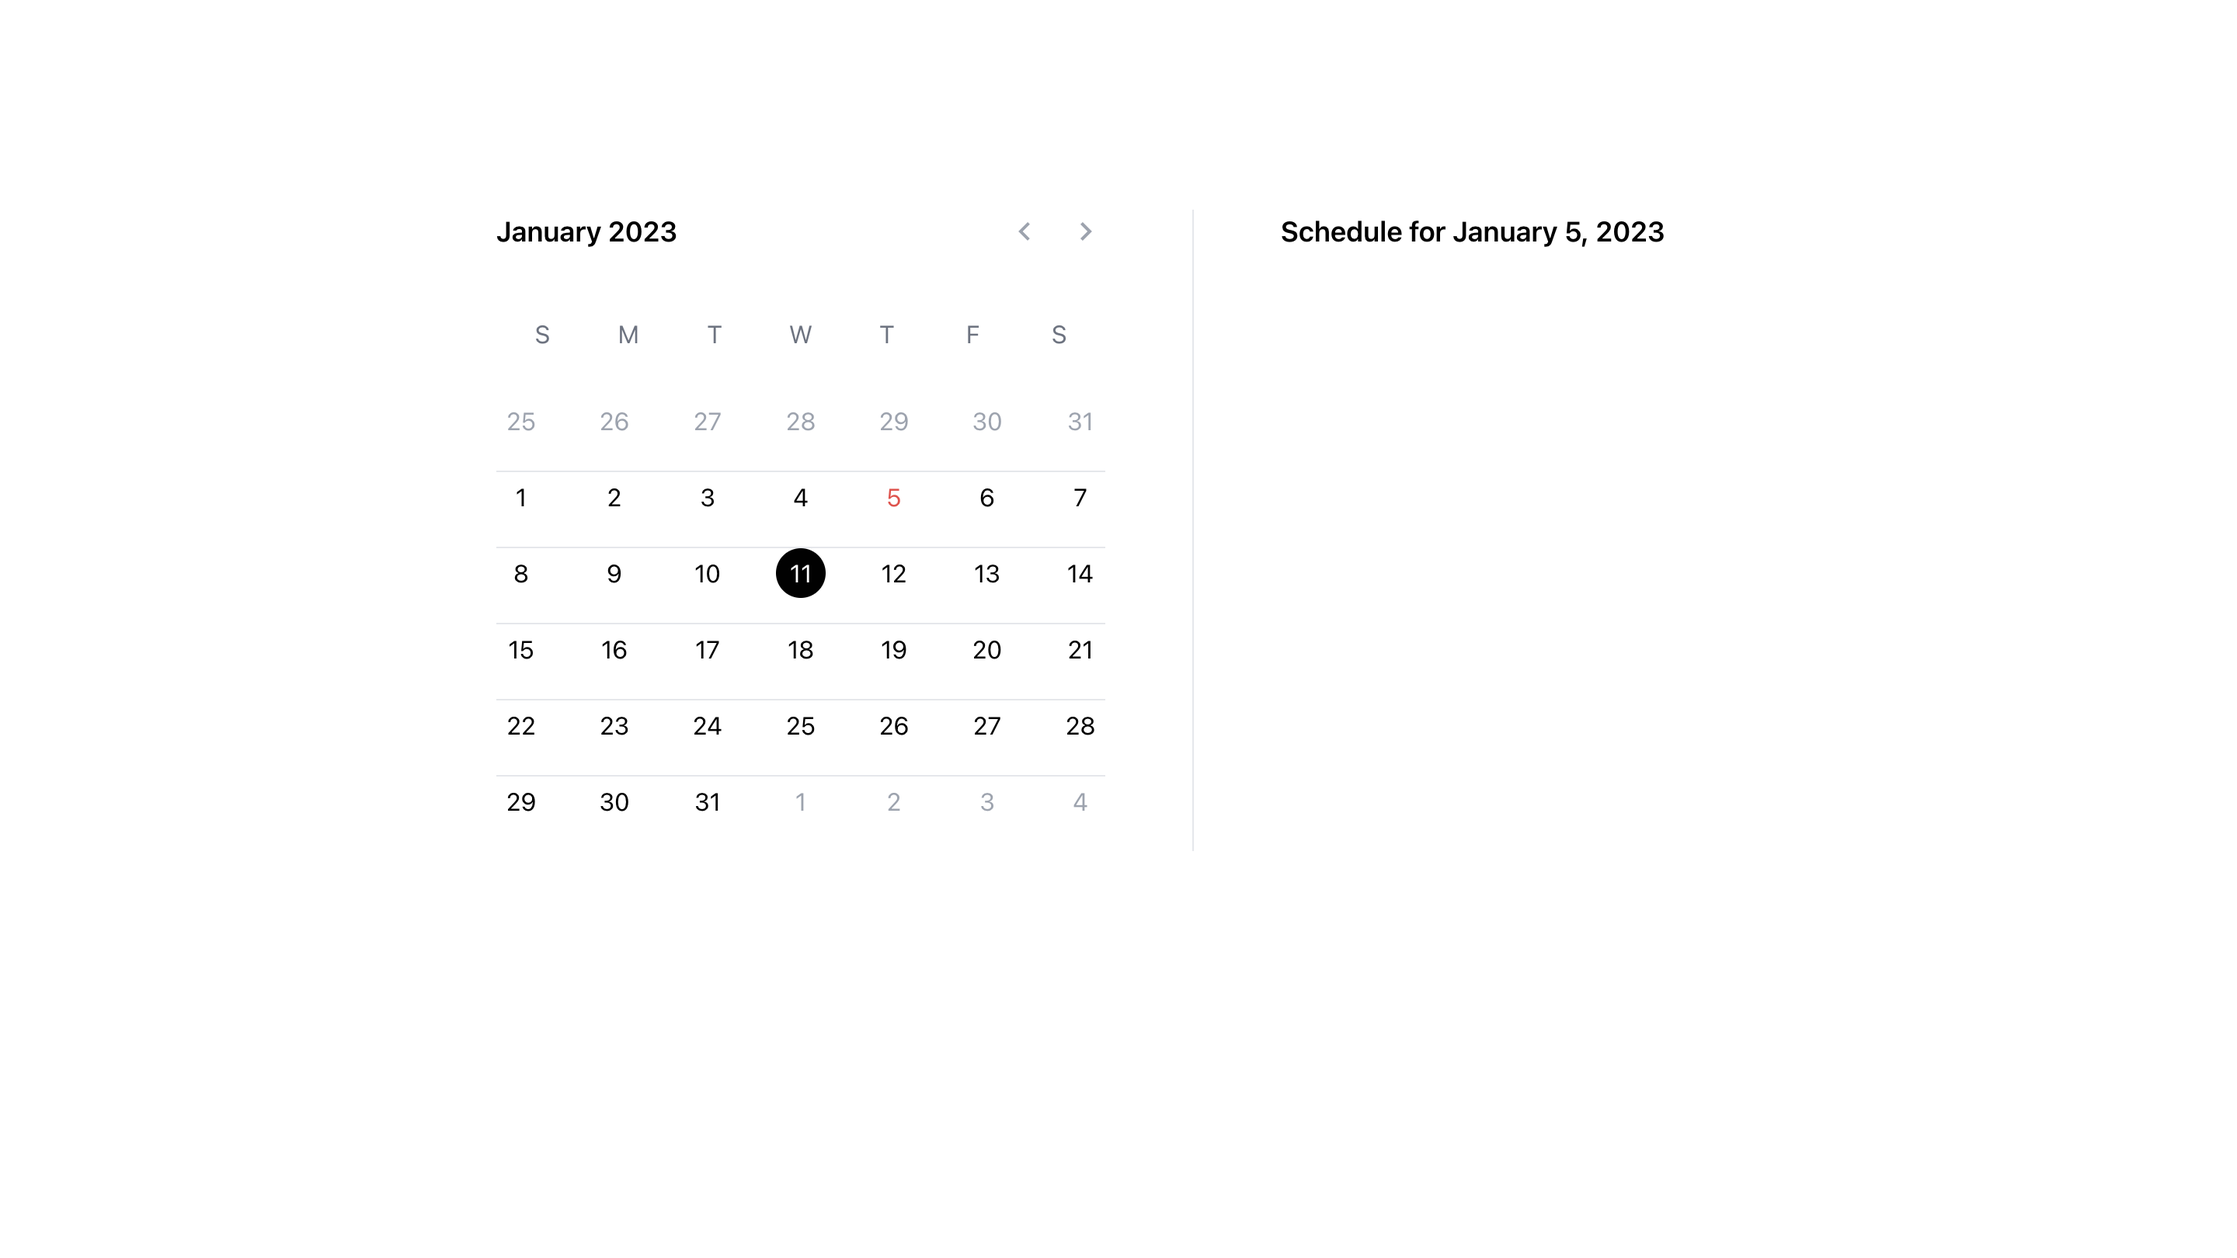
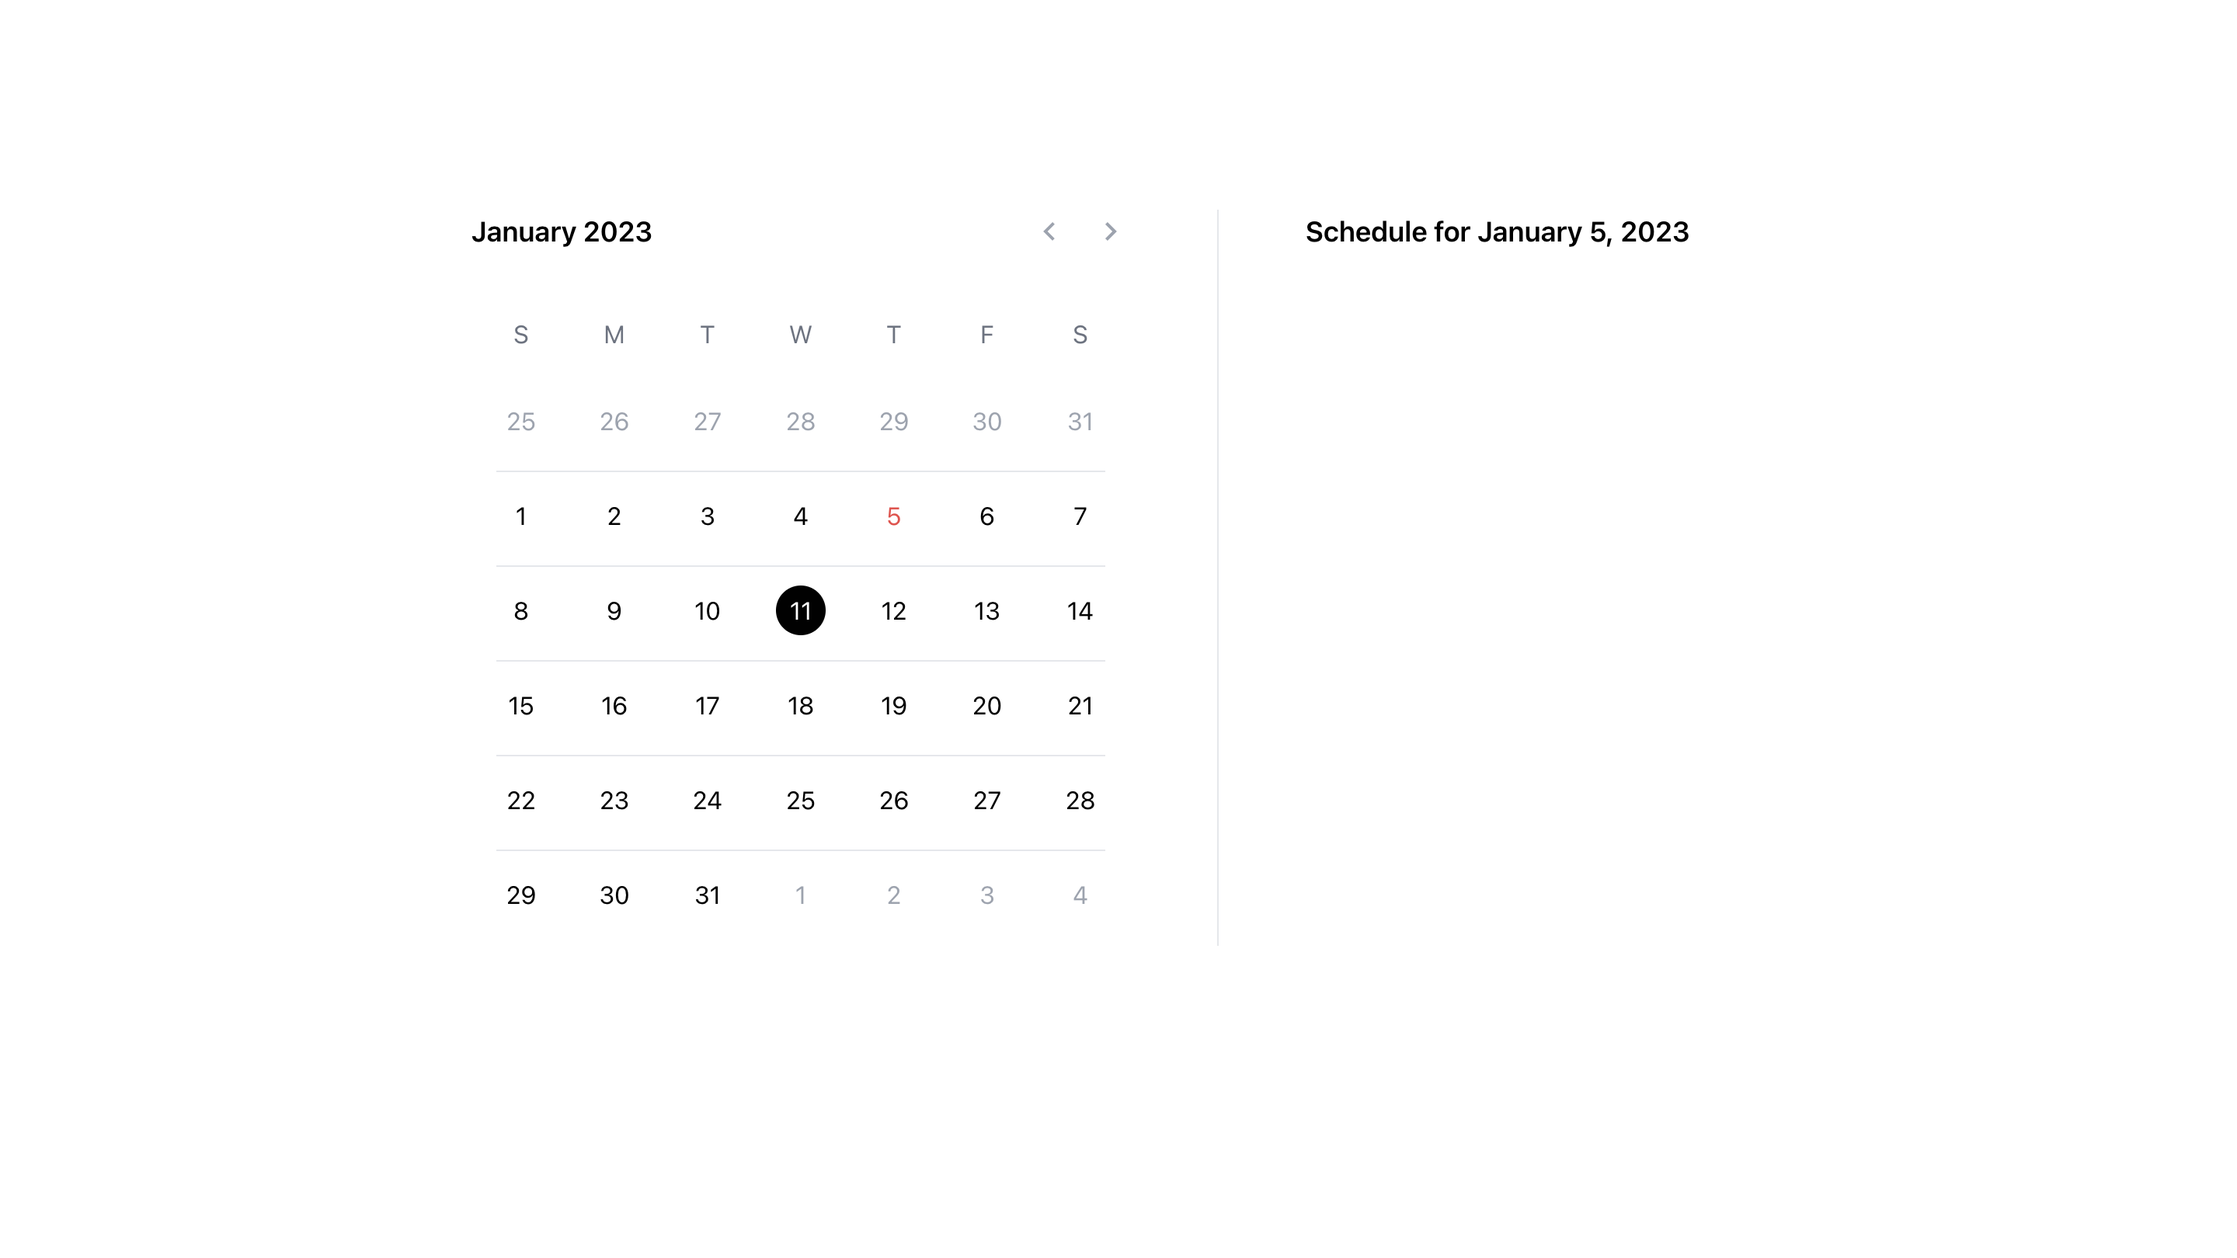
Updates

diff --git a/assets/index-fe94b594.js b/assets/index-fe94b594.js
@@ -47,4 +47,4 @@ Error generating stack: `+i.message+`
             top: ${l}px !important;
             left: ${a}px !important;
           }
-        `),()=>{document.head.removeChild(u)}},[t]),N.createElement(uN,{isPresent:t,childRef:r,sizeRef:o},N.cloneElement(e,{ref:r}))}const Fa=({children:e,initial:t,isPresent:n,onExitComplete:r,custom:o,presenceAffectsLayout:i,mode:s})=>{const l=Fl(fN),a=N.useId(),u=N.useMemo(()=>({id:a,initial:t,isPresent:n,custom:o,onExitComplete:c=>{l.set(c,!0);for(const f of l.values())if(!f)return;r&&r()},register:c=>(l.set(c,!1),()=>l.delete(c))}),i?void 0:[n]);return N.useMemo(()=>{l.forEach((c,f)=>l.set(f,!1))},[n]),N.useEffect(()=>{!n&&!l.size&&r&&r()},[n]),s==="popLayout"&&(e=N.createElement(cN,{isPresent:n},e)),N.createElement(vi.Provider,{value:u},e)};function fN(){return new Map}const sr=e=>e.key||"";function dN(e,t){e.forEach(n=>{const r=sr(n);t.set(r,n)})}function hN(e){const t=[];return N.Children.forEach(e,n=>{N.isValidElement(n)&&t.push(n)}),t}const w0=({children:e,custom:t,initial:n=!0,onExitComplete:r,exitBeforeEnter:o,presenceAffectsLayout:i=!0,mode:s="sync"})=>{o&&(s="wait");let[l]=aN();const a=N.useContext(_f).forceRender;a&&(l=a);const u=_0(),c=hN(e);let f=c;const d=new Set,m=N.useRef(f),y=N.useRef(new Map).current,g=N.useRef(!0);if(Us(()=>{g.current=!1,dN(c,y),m.current=f}),Pf(()=>{g.current=!0,y.clear(),d.clear()}),g.current)return N.createElement(N.Fragment,null,f.map(p=>N.createElement(Fa,{key:sr(p),isPresent:!0,initial:n?void 0:!1,presenceAffectsLayout:i,mode:s},p)));f=[...f];const E=m.current.map(sr),v=c.map(sr),h=E.length;for(let p=0;p<h;p++){const S=E[p];v.indexOf(S)===-1&&d.add(S)}return s==="wait"&&d.size&&(f=[]),d.forEach(p=>{if(v.indexOf(p)!==-1)return;const S=y.get(p);if(!S)return;const T=E.indexOf(p),C=()=>{y.delete(p),d.delete(p);const A=m.current.findIndex(V=>V.key===p);if(m.current.splice(A,1),!d.size){if(m.current=c,u.current===!1)return;l(),r&&r()}};f.splice(T,0,N.createElement(Fa,{key:sr(S),isPresent:!1,onExitComplete:C,custom:t,presenceAffectsLayout:i,mode:s},S))}),f=f.map(p=>{const S=p.key;return d.has(S)?p:N.createElement(Fa,{key:sr(p),isPresent:!0,presenceAffectsLayout:i,mode:s},p)}),N.createElement(N.Fragment,null,d.size?f:f.map(p=>N.cloneElement(p)))},Gf=ig({key:"dateState",default:new Date(2023,0,1)}),R0=ig({key:"selectedState",default:[]}),pN=["S","M","T","W","T","F","S"],T0=["January","February","March","April","May","June","July","August","September","October","November","December"],Ua=7,mN=()=>{const e=bu(Gf),[t,n]=sg(R0),r=(()=>{const i=new Date(e.getFullYear(),e.getMonth(),1),s=i.getDay();return[...Array(42)].map((l,a)=>(i.setDate(a===0?i.getDate()-(s||7):i.getDate()+1),{date:new Date(i),currentMonth:i.getMonth()===e.getMonth()}))})(),o=(i,s)=>{const l=i.currentTarget.classList.contains("active");n(a=>l?a.filter(u=>u.getDate()!==s.getDate()):[...a,s])};return ke("div",{children:[...Array(6)].map((i,s)=>ke("div",{className:"row",children:r.slice(Ua*s,Ua*s+Ua).map((l,a)=>ke("span",{className:`cell${l.currentMonth?"":" not-current"}${t.find(u=>u.getDate()===l.date.getDate()&&u.getMonth()===l.date.getMonth())?" active":""}`,onClick:u=>{o(u,l.date)},children:l.date.getDate()},a))},s))})},E0={hidden:{opacity:0},visible:{opacity:1}},vN=()=>{const[e,t]=sg(Gf),n=()=>{e.setMonth(e.getMonth()+1),t(new Date(e))},r=()=>{e.setMonth(e.getMonth()-1),t(new Date(e))};return ke(w0,{mode:"wait",initial:!1,children:lr(S0.div,{className:"calendar",variants:E0,initial:"hidden",animate:"visible",exit:"hidden",transition:{type:"spring",stiffness:50,duration:.2},children:[lr("div",{className:"calendar-header",children:[lr("span",{className:"title",children:[T0[e.getMonth()]," ",e.getFullYear()]}),lr("div",{className:"buttons",children:[ke("button",{onClick:r,children:ke(gN,{})}),ke("button",{onClick:n,children:ke(yN,{})})]})]}),ke("div",{className:"calendar-days",children:pN.map((o,i)=>ke("span",{className:"day",children:o},i))}),ke(mN,{})]},e.getMonth())})},yN=()=>ke("svg",{xmlns:"http://www.w3.org/2000/svg",height:"24",width:"24",fill:"currentColor",children:ke("path",{d:"M9.4 18 8 16.6l4.6-4.6L8 7.4 9.4 6l6 6Z"})}),gN=()=>ke("svg",{xmlns:"http://www.w3.org/2000/svg",height:"24",width:"24",fill:"currentColor",children:ke("path",{d:"m14 18-6-6 6-6 1.4 1.4-4.6 4.6 4.6 4.6Z"})}),SN=()=>{const e=bu(Gf),t=bu(R0),n=t[t.length-1]||e;return ke(w0,{mode:"wait",initial:!1,children:ke(S0.div,{className:"schedule",variants:E0,initial:"hidden",animate:"visible",exit:"hidden",transition:{type:"spring",stiffness:50,duration:.2},children:lr("p",{className:"schedule-date",children:["Schedule for ",T0[n.getMonth()]," ",n.getDate(),", ",n==null?void 0:n.getFullYear()]})},e.getMonth())})},_N=()=>lr("div",{className:"app",children:[ke(vN,{}),ke(SN,{})]});za.createRoot(document.getElementById("root")).render(ke(ue.StrictMode,{children:ke(Zx,{children:ke(_N,{})})}));
+        `),()=>{document.head.removeChild(u)}},[t]),N.createElement(uN,{isPresent:t,childRef:r,sizeRef:o},N.cloneElement(e,{ref:r}))}const Fa=({children:e,initial:t,isPresent:n,onExitComplete:r,custom:o,presenceAffectsLayout:i,mode:s})=>{const l=Fl(fN),a=N.useId(),u=N.useMemo(()=>({id:a,initial:t,isPresent:n,custom:o,onExitComplete:c=>{l.set(c,!0);for(const f of l.values())if(!f)return;r&&r()},register:c=>(l.set(c,!1),()=>l.delete(c))}),i?void 0:[n]);return N.useMemo(()=>{l.forEach((c,f)=>l.set(f,!1))},[n]),N.useEffect(()=>{!n&&!l.size&&r&&r()},[n]),s==="popLayout"&&(e=N.createElement(cN,{isPresent:n},e)),N.createElement(vi.Provider,{value:u},e)};function fN(){return new Map}const sr=e=>e.key||"";function dN(e,t){e.forEach(n=>{const r=sr(n);t.set(r,n)})}function hN(e){const t=[];return N.Children.forEach(e,n=>{N.isValidElement(n)&&t.push(n)}),t}const w0=({children:e,custom:t,initial:n=!0,onExitComplete:r,exitBeforeEnter:o,presenceAffectsLayout:i=!0,mode:s="sync"})=>{o&&(s="wait");let[l]=aN();const a=N.useContext(_f).forceRender;a&&(l=a);const u=_0(),c=hN(e);let f=c;const d=new Set,m=N.useRef(f),y=N.useRef(new Map).current,g=N.useRef(!0);if(Us(()=>{g.current=!1,dN(c,y),m.current=f}),Pf(()=>{g.current=!0,y.clear(),d.clear()}),g.current)return N.createElement(N.Fragment,null,f.map(p=>N.createElement(Fa,{key:sr(p),isPresent:!0,initial:n?void 0:!1,presenceAffectsLayout:i,mode:s},p)));f=[...f];const E=m.current.map(sr),v=c.map(sr),h=E.length;for(let p=0;p<h;p++){const S=E[p];v.indexOf(S)===-1&&d.add(S)}return s==="wait"&&d.size&&(f=[]),d.forEach(p=>{if(v.indexOf(p)!==-1)return;const S=y.get(p);if(!S)return;const T=E.indexOf(p),C=()=>{y.delete(p),d.delete(p);const A=m.current.findIndex(V=>V.key===p);if(m.current.splice(A,1),!d.size){if(m.current=c,u.current===!1)return;l(),r&&r()}};f.splice(T,0,N.createElement(Fa,{key:sr(S),isPresent:!1,onExitComplete:C,custom:t,presenceAffectsLayout:i,mode:s},S))}),f=f.map(p=>{const S=p.key;return d.has(S)?p:N.createElement(Fa,{key:sr(p),isPresent:!0,presenceAffectsLayout:i,mode:s},p)}),N.createElement(N.Fragment,null,d.size?f:f.map(p=>N.cloneElement(p)))},Gf=ig({key:"dateState",default:new Date(2023,0,1)}),R0=ig({key:"selectedState",default:[]}),pN=["S","M","T","W","T","F","S"],T0=["January","February","March","April","May","June","July","August","September","October","November","December"],Ua=7,mN=()=>{const e=bu(Gf),[t,n]=sg(R0),r=(()=>{const i=new Date(e.getFullYear(),e.getMonth(),1),s=i.getDay();return[...Array(42)].map((l,a)=>(i.setDate(a===0?i.getDate()-(s||7):i.getDate()+1),{date:new Date(i),currentMonth:i.getMonth()===e.getMonth()}))})(),o=(i,s)=>{const l=i.currentTarget.classList.contains("active");n(a=>l?a.filter(u=>u.getDate()!==s.getDate()):[...a,s])};return ke("div",{className:"calendar-cell",children:[...Array(6)].map((i,s)=>ke("div",{className:"row",children:r.slice(Ua*s,Ua*s+Ua).map((l,a)=>ke("span",{className:`cell${l.currentMonth?"":" not-current"}${t.find(u=>u.getDate()===l.date.getDate()&&u.getMonth()===l.date.getMonth())?" active":""}`,onClick:u=>{o(u,l.date)},children:l.date.getDate()},a))},s))})},E0={hidden:{opacity:0},visible:{opacity:1}},vN=()=>{const[e,t]=sg(Gf),n=()=>{e.setMonth(e.getMonth()+1),t(new Date(e))},r=()=>{e.setMonth(e.getMonth()-1),t(new Date(e))};return ke(w0,{mode:"wait",initial:!1,children:lr(S0.div,{className:"calendar",variants:E0,initial:"hidden",animate:"visible",exit:"hidden",transition:{type:"spring",stiffness:50,duration:.2},children:[lr("div",{className:"calendar-header",children:[lr("span",{className:"title",children:[T0[e.getMonth()]," ",e.getFullYear()]}),lr("div",{className:"buttons",children:[ke("button",{onClick:r,children:ke(gN,{})}),ke("button",{onClick:n,children:ke(yN,{})})]})]}),ke("div",{className:"calendar-days",children:pN.map((o,i)=>ke("span",{className:"day",children:o},i))}),ke(mN,{})]},e.getMonth())})},yN=()=>ke("svg",{xmlns:"http://www.w3.org/2000/svg",height:"24",width:"24",fill:"currentColor",children:ke("path",{d:"M9.4 18 8 16.6l4.6-4.6L8 7.4 9.4 6l6 6Z"})}),gN=()=>ke("svg",{xmlns:"http://www.w3.org/2000/svg",height:"24",width:"24",fill:"currentColor",children:ke("path",{d:"m14 18-6-6 6-6 1.4 1.4-4.6 4.6 4.6 4.6Z"})}),SN=()=>{const e=bu(Gf),t=bu(R0),n=t[t.length-1]||e;return ke(w0,{mode:"wait",initial:!1,children:ke(S0.div,{className:"schedule",variants:E0,initial:"hidden",animate:"visible",exit:"hidden",transition:{type:"spring",stiffness:50,duration:.2},children:lr("p",{className:"schedule-date",children:["Schedule for ",T0[n.getMonth()]," ",n.getDate(),", ",n==null?void 0:n.getFullYear()]})},e.getMonth())})},_N=()=>lr("div",{className:"app",children:[ke(vN,{}),ke(SN,{})]});za.createRoot(document.getElementById("root")).render(ke(ue.StrictMode,{children:ke(Zx,{children:ke(_N,{})})}));

diff --git a/assets/index-55fc0302.css b/assets/index-55fc0302.css
@@ -1,0 +1,1 @@
+*,:before,:after{box-sizing:border-box;border-width:0;border-style:solid;border-color:#e5e7eb}:before,:after{--tw-content: ""}html{line-height:1.5;-webkit-text-size-adjust:100%;-moz-tab-size:4;-o-tab-size:4;tab-size:4;font-family:ui-sans-serif,system-ui,-apple-system,BlinkMacSystemFont,Segoe UI,Roboto,Helvetica Neue,Arial,Noto Sans,sans-serif,"Apple Color Emoji","Segoe UI Emoji",Segoe UI Symbol,"Noto Color Emoji";font-feature-settings:normal}body{margin:0;line-height:inherit}hr{height:0;color:inherit;border-top-width:1px}abbr:where([title]){-webkit-text-decoration:underline dotted;text-decoration:underline dotted}h1,h2,h3,h4,h5,h6{font-size:inherit;font-weight:inherit}a{color:inherit;text-decoration:inherit}b,strong{font-weight:bolder}code,kbd,samp,pre{font-family:ui-monospace,SFMono-Regular,Menlo,Monaco,Consolas,Liberation Mono,Courier New,monospace;font-size:1em}small{font-size:80%}sub,sup{font-size:75%;line-height:0;position:relative;vertical-align:baseline}sub{bottom:-.25em}sup{top:-.5em}table{text-indent:0;border-color:inherit;border-collapse:collapse}button,input,optgroup,select,textarea{font-family:inherit;font-size:100%;font-weight:inherit;line-height:inherit;color:inherit;margin:0;padding:0}button,select{text-transform:none}button,[type=button],[type=reset],[type=submit]{-webkit-appearance:button;background-color:transparent;background-image:none}:-moz-focusring{outline:auto}:-moz-ui-invalid{box-shadow:none}progress{vertical-align:baseline}::-webkit-inner-spin-button,::-webkit-outer-spin-button{height:auto}[type=search]{-webkit-appearance:textfield;outline-offset:-2px}::-webkit-search-decoration{-webkit-appearance:none}::-webkit-file-upload-button{-webkit-appearance:button;font:inherit}summary{display:list-item}blockquote,dl,dd,h1,h2,h3,h4,h5,h6,hr,figure,p,pre{margin:0}fieldset{margin:0;padding:0}legend{padding:0}ol,ul,menu{list-style:none;margin:0;padding:0}textarea{resize:vertical}input::-moz-placeholder,textarea::-moz-placeholder{opacity:1;color:#9ca3af}input::placeholder,textarea::placeholder{opacity:1;color:#9ca3af}button,[role=button]{cursor:pointer}:disabled{cursor:default}img,svg,video,canvas,audio,iframe,embed,object{display:block;vertical-align:middle}img,video{max-width:100%;height:auto}[hidden]{display:none}*,:before,:after{--tw-border-spacing-x: 0;--tw-border-spacing-y: 0;--tw-translate-x: 0;--tw-translate-y: 0;--tw-rotate: 0;--tw-skew-x: 0;--tw-skew-y: 0;--tw-scale-x: 1;--tw-scale-y: 1;--tw-pan-x: ;--tw-pan-y: ;--tw-pinch-zoom: ;--tw-scroll-snap-strictness: proximity;--tw-ordinal: ;--tw-slashed-zero: ;--tw-numeric-figure: ;--tw-numeric-spacing: ;--tw-numeric-fraction: ;--tw-ring-inset: ;--tw-ring-offset-width: 0px;--tw-ring-offset-color: #fff;--tw-ring-color: rgb(59 130 246 / .5);--tw-ring-offset-shadow: 0 0 #0000;--tw-ring-shadow: 0 0 #0000;--tw-shadow: 0 0 #0000;--tw-shadow-colored: 0 0 #0000;--tw-blur: ;--tw-brightness: ;--tw-contrast: ;--tw-grayscale: ;--tw-hue-rotate: ;--tw-invert: ;--tw-saturate: ;--tw-sepia: ;--tw-drop-shadow: ;--tw-backdrop-blur: ;--tw-backdrop-brightness: ;--tw-backdrop-contrast: ;--tw-backdrop-grayscale: ;--tw-backdrop-hue-rotate: ;--tw-backdrop-invert: ;--tw-backdrop-opacity: ;--tw-backdrop-saturate: ;--tw-backdrop-sepia: }::backdrop{--tw-border-spacing-x: 0;--tw-border-spacing-y: 0;--tw-translate-x: 0;--tw-translate-y: 0;--tw-rotate: 0;--tw-skew-x: 0;--tw-skew-y: 0;--tw-scale-x: 1;--tw-scale-y: 1;--tw-pan-x: ;--tw-pan-y: ;--tw-pinch-zoom: ;--tw-scroll-snap-strictness: proximity;--tw-ordinal: ;--tw-slashed-zero: ;--tw-numeric-figure: ;--tw-numeric-spacing: ;--tw-numeric-fraction: ;--tw-ring-inset: ;--tw-ring-offset-width: 0px;--tw-ring-offset-color: #fff;--tw-ring-color: rgb(59 130 246 / .5);--tw-ring-offset-shadow: 0 0 #0000;--tw-ring-shadow: 0 0 #0000;--tw-shadow: 0 0 #0000;--tw-shadow-colored: 0 0 #0000;--tw-blur: ;--tw-brightness: ;--tw-contrast: ;--tw-grayscale: ;--tw-hue-rotate: ;--tw-invert: ;--tw-saturate: ;--tw-sepia: ;--tw-drop-shadow: ;--tw-backdrop-blur: ;--tw-backdrop-brightness: ;--tw-backdrop-contrast: ;--tw-backdrop-grayscale: ;--tw-backdrop-hue-rotate: ;--tw-backdrop-invert: ;--tw-backdrop-opacity: ;--tw-backdrop-saturate: ;--tw-backdrop-sepia: }.app{margin-left:auto;margin-right:auto;margin-top:10rem;display:flex;height:100vh;max-width:900px;align-items:flex-start;justify-content:center;padding-left:2rem;padding-right:2rem}.calendar-header{margin-bottom:2.5rem;display:flex}.title{flex:1 1 0%;font-size:1.125rem;line-height:1.75rem;font-weight:600}.buttons{display:flex;gap:1rem;--tw-text-opacity: 1;color:rgb(156 163 175 / var(--tw-text-opacity))}.calendar-days{margin-bottom:1.75rem;display:grid;grid-template-columns:repeat(7,minmax(0,1fr));gap:1.75rem;padding-left:1rem;padding-right:1rem;--tw-text-opacity: 1;color:rgb(107 114 128 / var(--tw-text-opacity))}.day{text-align:center}.calendar-cell{display:grid;grid-template-rows:repeat(6,minmax(0,1fr));gap:.75rem;padding-left:1rem;padding-right:1rem}.row{display:grid;grid-template-columns:repeat(7,minmax(0,1fr));gap:1.75rem;border-bottom-width:1px;padding-bottom:1rem}.row:last-child{border-style:none}.cell,.\!cell{width:2rem;cursor:pointer;border-radius:1rem;padding:.25rem;text-align:center;transition-property:all;transition-timing-function:cubic-bezier(.4,0,.2,1);transition-duration:.2s}.cell.active,.\!cell.active{--tw-text-opacity: 1;color:rgb(239 68 68 / var(--tw-text-opacity))}.cell:hover,.\!cell:hover{--tw-bg-opacity: 1;background-color:rgb(0 0 0 / var(--tw-bg-opacity));--tw-text-opacity: 1;color:rgb(255 255 255 / var(--tw-text-opacity))}.cell.active:hover,.\!cell.active:hover{--tw-bg-opacity: 1;background-color:rgb(239 68 68 / var(--tw-bg-opacity));--tw-text-opacity: 1;color:rgb(255 255 255 / var(--tw-text-opacity))}.not-current{--tw-text-opacity: 1;color:rgb(156 163 175 / var(--tw-text-opacity))}@media screen and (min-width: 30rem){.calendar{border-right-width:1px;padding-right:3.5rem}.schedule{width:22rem;padding-left:3.5rem}.schedule-date{font-size:1.125rem;line-height:1.75rem;font-weight:600}}.visible{visibility:visible}.hidden{display:none}.filter{filter:var(--tw-blur) var(--tw-brightness) var(--tw-contrast) var(--tw-grayscale) var(--tw-hue-rotate) var(--tw-invert) var(--tw-saturate) var(--tw-sepia) var(--tw-drop-shadow)}.transition{transition-property:color,background-color,border-color,text-decoration-color,fill,stroke,opacity,box-shadow,transform,filter,-webkit-backdrop-filter;transition-property:color,background-color,border-color,text-decoration-color,fill,stroke,opacity,box-shadow,transform,filter,backdrop-filter;transition-property:color,background-color,border-color,text-decoration-color,fill,stroke,opacity,box-shadow,transform,filter,backdrop-filter,-webkit-backdrop-filter;transition-timing-function:cubic-bezier(.4,0,.2,1);transition-duration:.15s}html,body{background-color:#fff}body{margin:0;font-family:system-ui,-apple-system,BlinkMacSystemFont,Segoe UI,Roboto,Oxygen,Ubuntu,Cantarell,Open Sans,Helvetica Neue,sans-serif;-webkit-font-smoothing:antialiased;-moz-osx-font-smooothing:grayscale}

diff --git a/index.html b/index.html
@@ -5,8 +5,8 @@
     <link rel="icon" type="image/svg+xml" href="/calendar/vite.svg" />
     <meta name="viewport" content="width=device-width, initial-scale=1.0" />
     <title>Calendar</title>
-    <script type="module" crossorigin src="/calendar/assets/index-0c68c370.js"></script>
-    <link rel="stylesheet" href="/calendar/assets/index-d862f61c.css">
+    <script type="module" crossorigin src="/calendar/assets/index-fe94b594.js"></script>
+    <link rel="stylesheet" href="/calendar/assets/index-55fc0302.css">
   </head>
   <body>
     <div id="root"></div>
